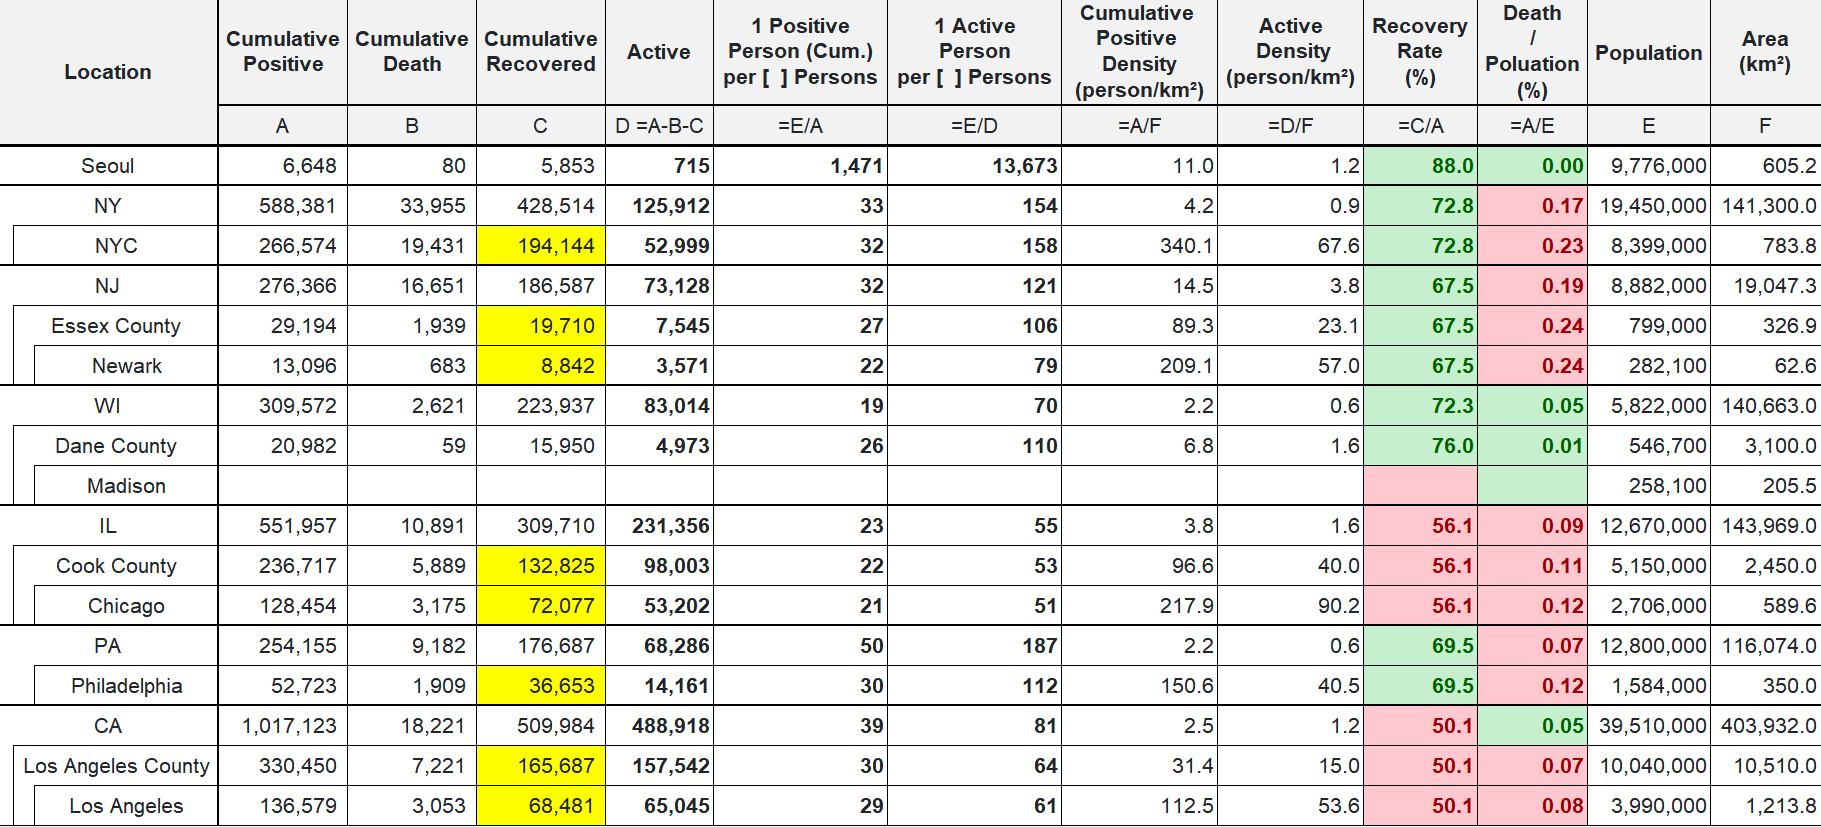
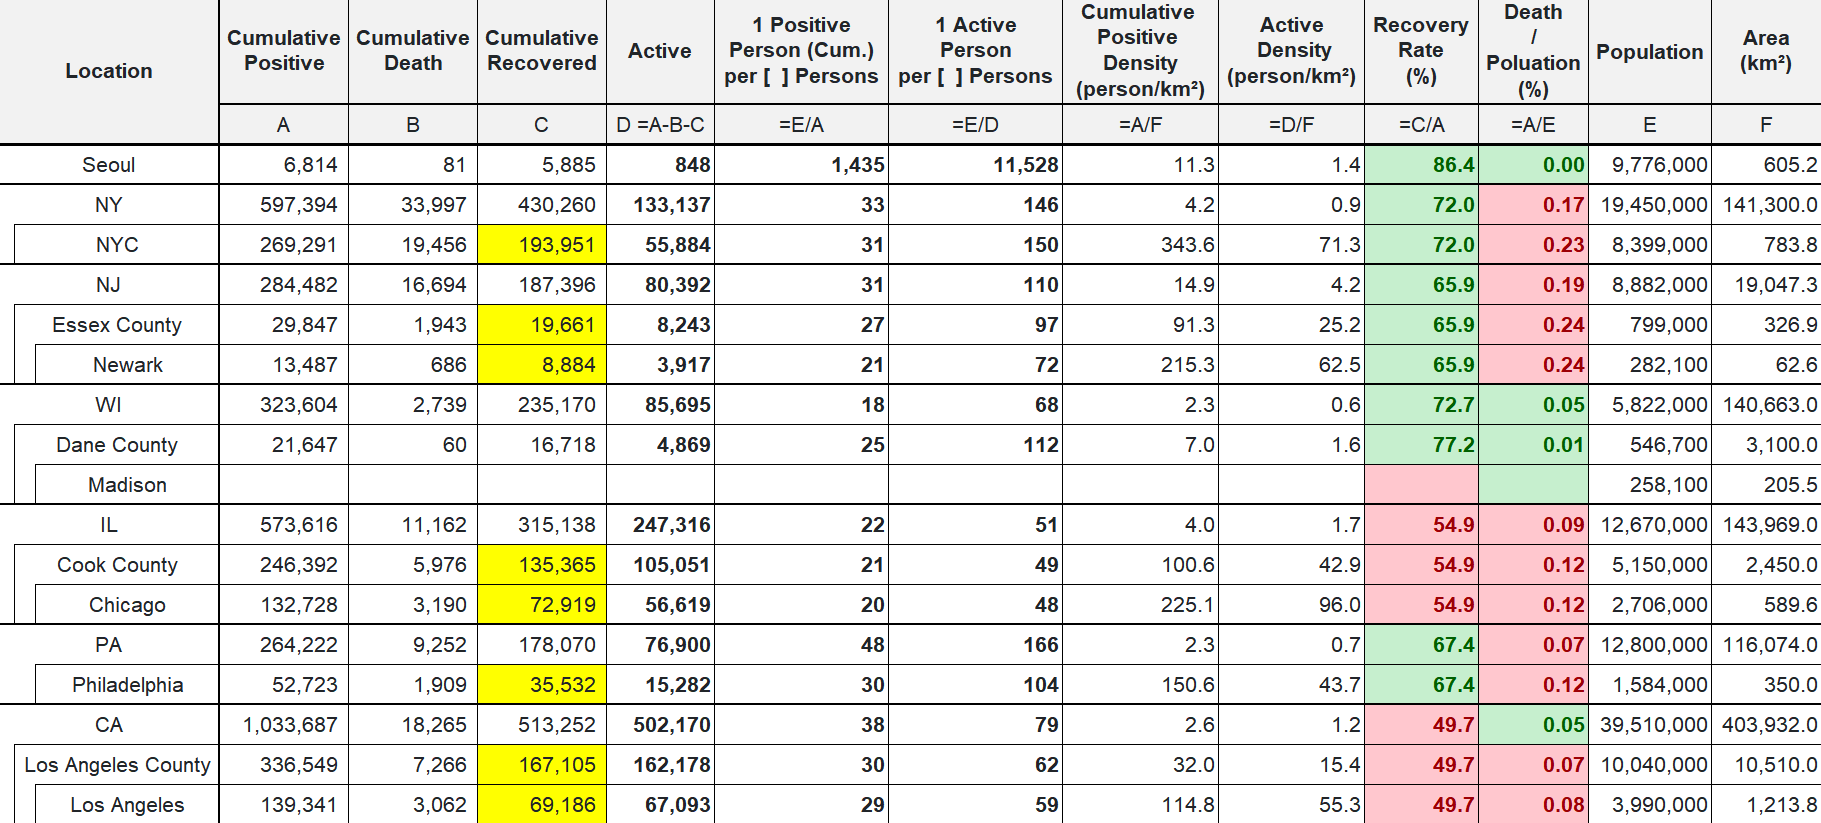
update 11/15 status

diff --git a/index.html b/index.html
@@ -19,7 +19,7 @@
 
 <body class="container-fluid">
 	<h1> CoronaV for Friends</h1>
-	<h2> Data updated at Nov 13 2020 EST 20:15</h2>
+	<h2> Data updated at Nov 15 2020 EST 21:30</h2>
 	<hr>
 	<main>
 		<div class="row">
